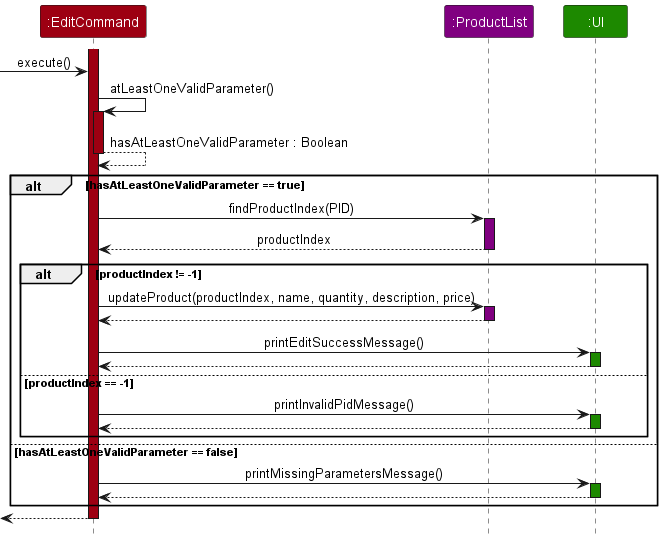
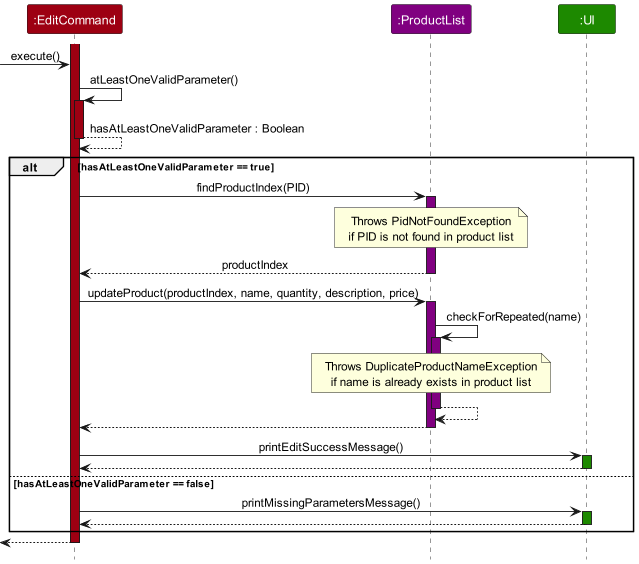
Update DG and fix duplicate product name logic

Changed region(s): [[0.0, 0.0, 1.0, 0.9742], [0.5947, 0.0, 0.9812, 0.1181], [0.892, 0.3838, 0.9218, 0.4133]]

diff --git a/src/main/java/seedu/stockpal/data/ProductList.java b/src/main/java/seedu/stockpal/data/ProductList.java
@@ -11,15 +11,11 @@ import seedu.stockpal.data.product.Name;
 import seedu.stockpal.data.product.Quantity;
 import seedu.stockpal.data.product.Description;
 import seedu.stockpal.data.product.Price;
-import seedu.stockpal.exceptions.InsufficientAmountException;
-import seedu.stockpal.exceptions.InventoryQuantityOverflowException;
-import seedu.stockpal.exceptions.NoLowQuantityException;
-import seedu.stockpal.exceptions.PidNotFoundException;
+import seedu.stockpal.exceptions.*;
 import seedu.stockpal.ui.Ui;
 
-import static seedu.stockpal.common.Messages.MESSAGE_ERROR_PID_NOT_FOUND;
+import static seedu.stockpal.common.Messages.*;
 import static seedu.stockpal.ui.Ui.printToScreen;
-import static seedu.stockpal.common.Messages.HORIZONTAL_LINE;
 
 
 public class ProductList {
@@ -32,11 +28,8 @@ public class ProductList {
         products.add(toAdd);
     }
 
-
-    public boolean checkForRepeated(ProductList productList, String name) {
-
-        for (int i = 0; i < productList.getSize(); i ++) {
-            List<Product> products = productList.getProducts();
+    public boolean checkForRepeated(String name) {
+        for (int i = 0; i < products.size(); i ++) {
             Product product = products.get(i);
 
             String objName = product.getName().getName();
@@ -71,11 +64,27 @@ public class ProductList {
         products.remove(productIndex);
     }
 
+    /**
+     * Updates the product at the specified index with new details.
+     * Only fields with non-null parameter values will be updated.
+     *
+     * @param productIndex Index of the product within Product List
+     * @param newName New name to assign to the product.
+     * @param newQuantity New quantity to assign to the product.
+     * @param newDescription New description to assign to the product.
+     * @param newPrice New price to assign to the product.
+     * @throws DuplicateProductNameException When an existing product is already using the new name given.
+     */
     public void updateProduct(int productIndex, Name newName, Quantity newQuantity
-            , Description newDescription, Price newPrice) {
+            , Description newDescription, Price newPrice) throws DuplicateProductNameException {
         Product updatedProduct = products.get(productIndex);
 
         if (!newName.isNull()) {
+            boolean repeated = checkForRepeated(newName.getName());
+
+            if (repeated) {
+                throw new DuplicateProductNameException(DUPLICATE_MESSAGE);
+            }
             updatedProduct.setName(newName);
         }
         if (!newQuantity.isNull()) {

diff --git a/src/main/java/seedu/stockpal/commands/EditCommand.java b/src/main/java/seedu/stockpal/commands/EditCommand.java
@@ -83,12 +83,6 @@ public class EditCommand extends ListActionCommand {
         int productIndex = productList.findProductIndex(this.pid);
         assert productList.getSize() > 0;
 
-        boolean repeated = productList.checkForRepeated(productList, name.getName());
-
-        if (repeated) {
-            throw new DuplicateProductNameException(DUPLICATE_MESSAGE);
-        }
-
         productList.updateProduct(productIndex, name, quantity, description, price);
         logger.log(Level.INFO, Messages.MESSAGE_EDIT_SUCCESS);
         Ui.printEditSuccessMessage();

diff --git a/src/main/java/seedu/stockpal/commands/NewCommand.java b/src/main/java/seedu/stockpal/commands/NewCommand.java
@@ -52,7 +52,7 @@ public class NewCommand extends ListActionCommand {
 
     @Override
     public void execute(ProductList productList) throws DuplicateProductNameException {
-        boolean repeated = productList.checkForRepeated(productList, name);
+        boolean repeated = productList.checkForRepeated(name);
 
         if (repeated) {
             throw new DuplicateProductNameException(DUPLICATE_MESSAGE);

diff --git a/docs/DeveloperGuide.md b/docs/DeveloperGuide.md
@@ -185,7 +185,7 @@ The NewCommand class is responsible for adding a new product to the inventory in
 The add product feature is facilitated by `NewCommand` which extends `Command`.
 
 Specific validations are still carried out within `NewCommand`.
-1. Checking if the edited product name is the same as an existing product name
+1. Checking if the new product name is the same as an existing product name.
 
 Once all validation is completed, adding of product is done by calling `ProductList#addProduct()`.
 
@@ -200,25 +200,15 @@ The `edit` command is used to edit product details such as name, quantity, price
 
 The edit product feature is facilitated by `EditCommand` which extends `Command`.
 
-Specific validations are still carried out within `EditCommand`.
+Specific validations are still carried out when updating the product details.
 1. Checking if at least 1 field (name, quantity, price or description) is provided.
 2. Checking if the product ID (PID) belongs to an existing product.
-3. Checking if the edited product name is the same as an existing product name
+3. Checking if the edited product name is the same as an existing product name.
 
-Once all validation is completed, updating of product details is done by calling `ProductList#updateProduct()`.
+Updating of product details is done by calling `ProductList#updateProduct()`.
 
 The following sequence diagram details how `EditCommand#execute()` functions.
 <img src="images/EditCommandExecuteSequenceDiagram.png" alt="EditCommandExecuteSequenceDiagram.png"/>
-
-**Aspect: Validating parameters and handling errors**
-
-- Alternative 1 (current choice): Check parameters and handle errors within `EditCommand`.
-  - Pros: Easy to implement
-  - Cons: -
-  
-- Alternative 2: Handle validation of errors within `productList#updateProduct()`.
-    - Pros: Implementing `EditCommand#execute()` will be very simple. Usage of throw/catch to handle errors.
-    - Cons: `productList#updateProduct()` will be more lengthy. May require further abstraction.
 
 ### List Feature
 The ListCommand class is responsible for sorting and printing out the products in the list. 
